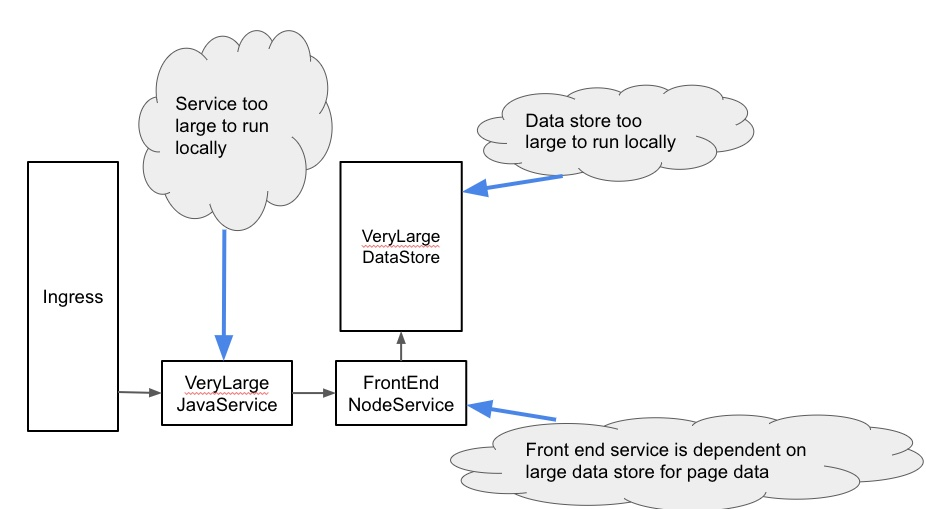
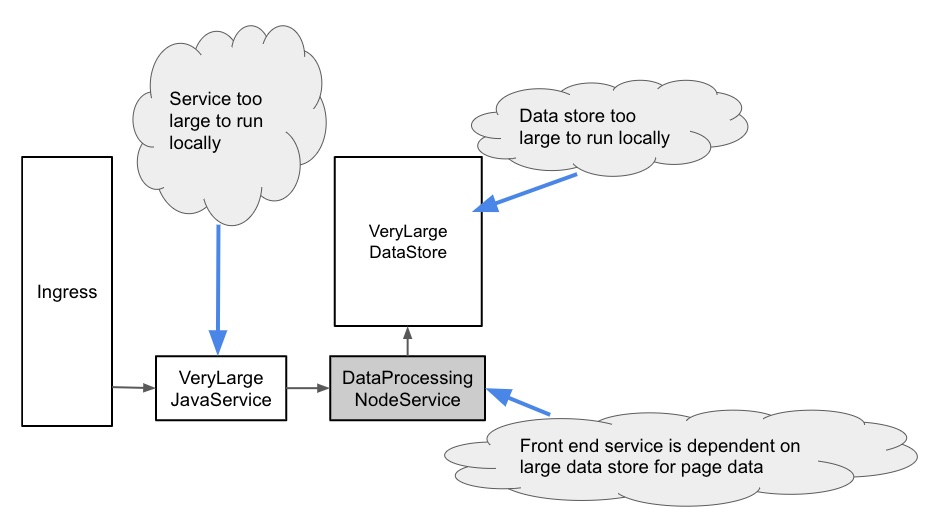
Add color to architecture diagram

diff --git a/VeryLargeJavaService/src/main/resources/templates/greeting.html b/VeryLargeJavaService/src/main/resources/templates/greeting.html
@@ -18,7 +18,8 @@
 <p th:text="'The contents of this page were generated from the \'' + ${environment} + '\' environment!'" />
 
 <p>The architecture that powers this page is shown below: </p>
-<img src="architecture.jpg" />
+
+<img th:src="'architecture-' + ${color} + '.jpg'"/>
 
 </body>
 </html>
